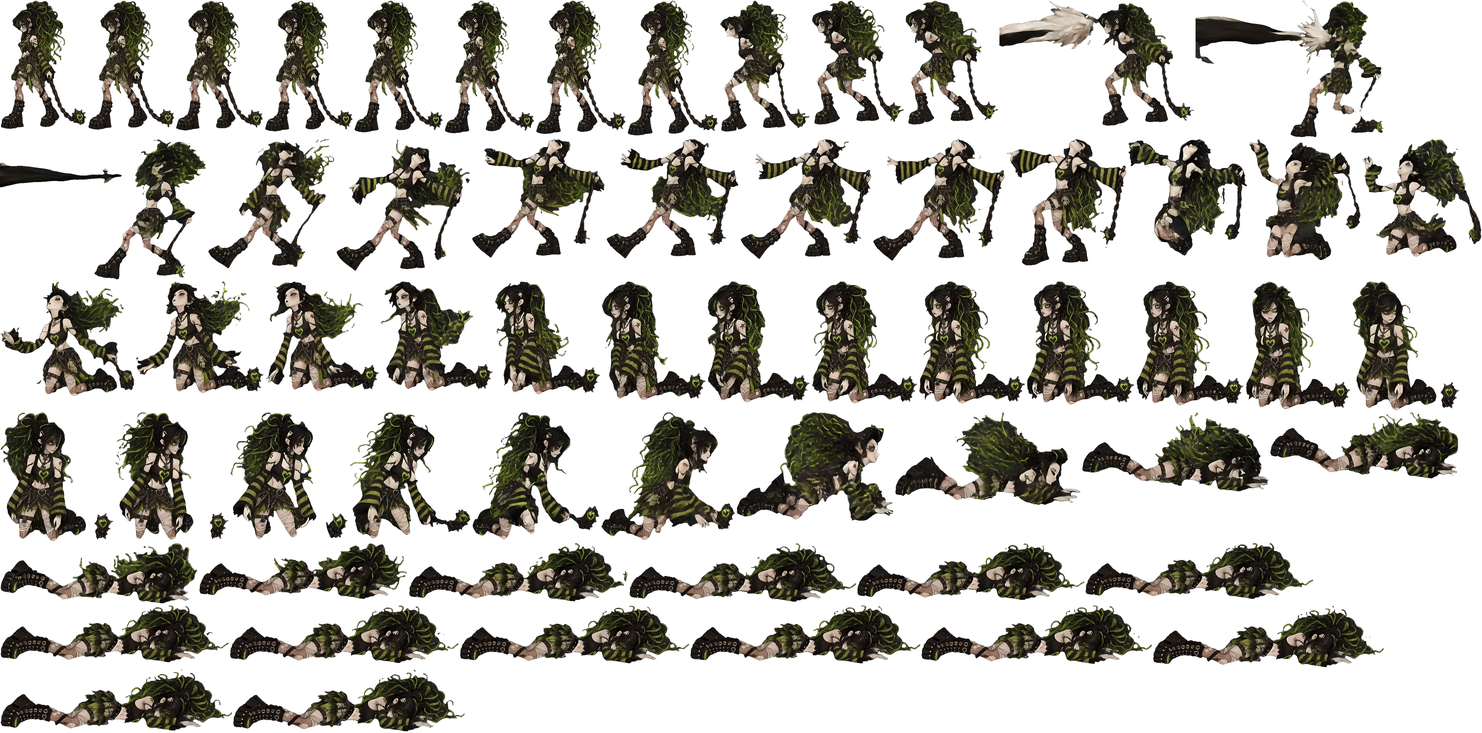
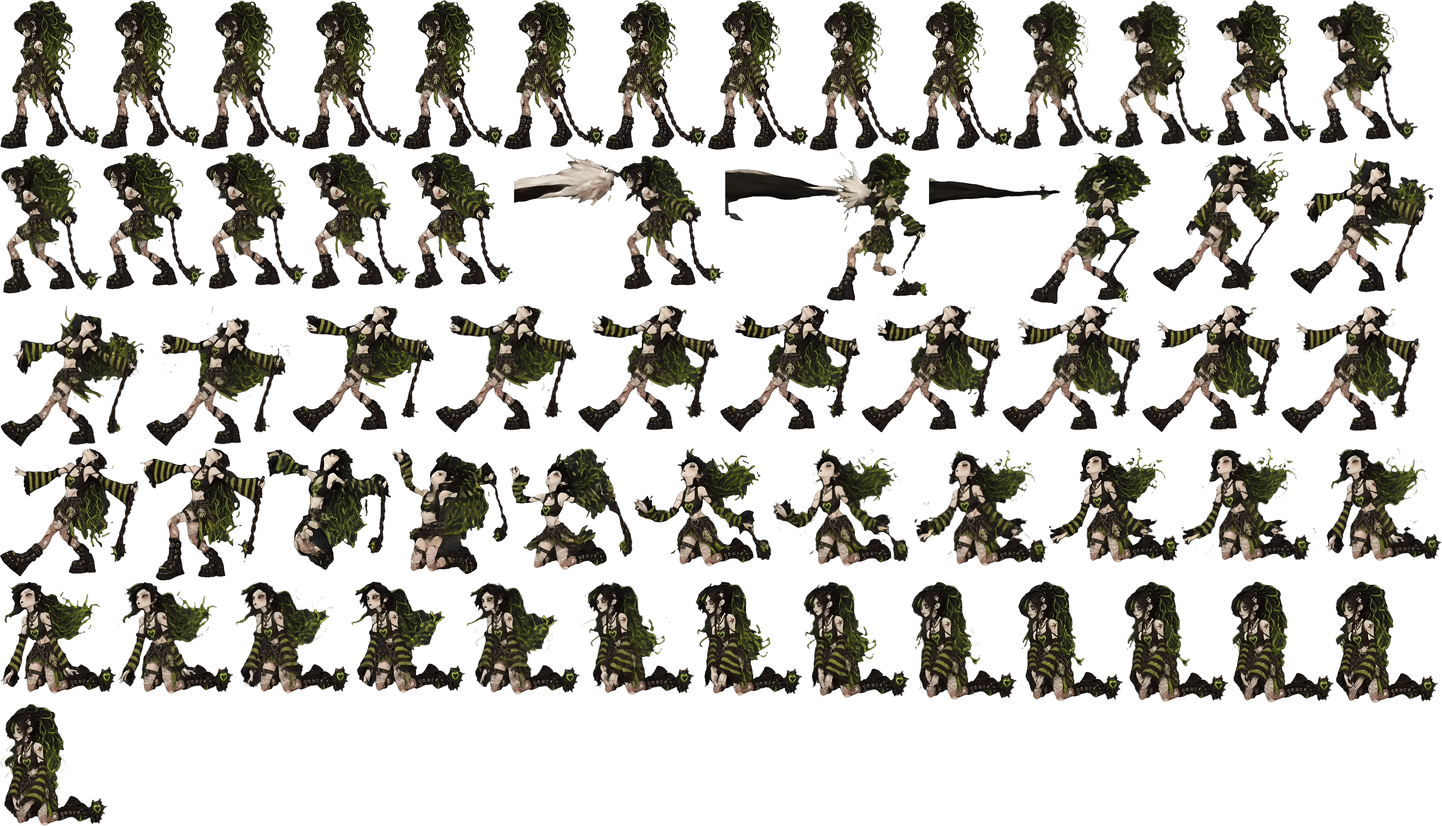
V9.43: Chain Goth death smoother and slower
Remove the source video's zoom-in so she stays at fight size, add 57
in-between frames (118 total across chain-death + chain-deathb), and
slow the fall from 4.3s to 6.0s.

Claude-Session: https://claude.ai/code/session_01Mi8TEfU6kHtCDJx6F5PqMK

diff --git a/js/levels/level1.js b/js/levels/level1.js
@@ -357,7 +357,7 @@ const ZOMBIE_DEATH_FLOOR_OFFSETS = [];   // V9.24: new death frames are bottom-a
    animator's 1440x1440 frames by tools/build_chain_assets.py). Every frame row is
    [packX, packY, packW, packH, offsetX, offsetY]; the offsets place the trimmed frame
    relative to her feet. The art faces LEFT, like the Zombie Goth art. */
-const CHAIN_ATLAS_DATA = {"intro":{"size":[3927,3924],"scale":0.64,"frames":[[0,0,269,401,-211,-623],[271,0,268,401,-211,-622],[541,0,269,396,-211,-615],[812,0,269,389,-211,-605],[1083,0,274,387,-211,-601],[1359,0,277,392,-211,-610],[1638,0,300,400,-211,-621],[1940,0,333,405,-211,-629],[2275,0,359,417,-211,-649],[2636,0,376,470,-211,-731],[3014,0,380,539,-215,-839],[3396,0,418,517,-382,-804],[0,541,367,543,-436,-844],[369,541,388,463,-443,-719],[759,541,456,390,-399,-606],[1217,541,352,486,-211,-756],[1571,541,419,500,-292,-777],[1992,541,554,509,-450,-791],[2548,541,476,525,-423,-819],[3026,541,377,554,-440,-865],[3405,541,522,400,-477,-624],[0,1097,511,435,-446,-664],[513,1097,381,534,-209,-792],[896,1097,436,516,-269,-788],[1334,1097,584,519,-452,-807],[1920,1097,500,532,-427,-829],[2422,1097,385,548,-452,-856],[2809,1097,530,400,-491,-625],[3341,1097,503,429,-425,-649],[0,1647,380,526,-210,-771],[382,1647,429,524,-258,-815],[813,1647,579,511,-434,-794],[1394,1647,520,529,-429,-824],[1916,1647,372,562,-437,-877],[2290,1647,486,460,-464,-718],[2778,1647,541,409,-464,-623],[3321,1647,423,481,-279,-704],[0,2211,393,549,-210,-801],[395,2211,488,505,-330,-784],[885,2211,605,515,-462,-801],[1492,2211,497,538,-427,-839],[1991,2211,370,560,-443,-874],[2363,2211,518,401,-475,-626],[2883,2211,519,412,-442,-626],[3404,2211,405,508,-241,-740],[0,2773,410,579,-225,-830],[412,2773,543,504,-413,-782],[957,2773,596,514,-461,-798],[1555,2773,449,536,-424,-834],[2006,2773,405,559,-436,-873],[2413,2773,527,400,-467,-624],[2942,2773,508,424,-414,-634],[3452,2773,390,545,-209,-783],[0,3354,423,563,-237,-803],[425,3354,547,509,-404,-790],[974,3354,609,515,-461,-799],[1585,3354,478,535,-427,-833],[2065,3354,375,568,-431,-887],[2442,3354,513,452,-455,-706],[2957,3354,530,422,-447,-630]]},"walk":{"size":[3693,357],"scale":0.56,"frames":[[0,0,240,352,-172,-624],[242,0,246,354,-168,-630],[490,0,244,355,-188,-631],[736,0,264,352,-259,-628],[1002,0,245,347,-261,-618],[1249,0,237,340,-245,-609],[1488,0,223,343,-213,-614],[1713,0,216,348,-173,-623],[1931,0,218,353,-144,-630],[2151,0,225,355,-155,-633],[2378,0,236,352,-217,-632],[2616,0,275,347,-271,-625],[2893,0,278,345,-257,-614],[3173,0,267,347,-225,-614],[3442,0,251,352,-187,-622]]},"swipe":{"size":[4064,953],"scale":0.64,"frames":[[0,0,269,401,-211,-623],[271,0,269,401,-211,-623],[542,0,269,401,-211,-624],[813,0,269,401,-211,-624],[1084,0,268,403,-211,-626],[1354,0,263,403,-211,-627],[1619,0,253,408,-211,-630],[1874,0,251,404,-211,-627],[2127,0,268,396,-211,-614],[2397,0,291,396,-211,-614],[2690,0,300,401,-236,-622],[2992,0,356,419,-339,-650],[3350,0,341,398,-385,-619],[3693,0,371,394,-441,-620],[0,421,477,413,-457,-641],[479,421,502,463,-396,-690],[983,421,390,484,-180,-724],[1375,421,418,530,-182,-799],[1795,421,385,490,-122,-868],[2182,421,386,507,-97,-913]]},"death":{"size":[4020,1989],"scale":0.56,"frames":[[0,0,236,352,-212,-624],[238,0,236,354,-213,-627],[476,0,239,356,-215,-629],[717,0,241,359,-219,-632],[960,0,243,361,-220,-632],[1205,0,246,364,-221,-636],[1453,0,246,366,-223,-637],[1701,0,248,370,-224,-645],[1951,0,248,359,-225,-619],[2201,0,252,340,-232,-585],[2455,0,254,340,-235,-584],[2711,0,530,343,-720,-589],[3243,0,512,374,-720,-636],[0,376,561,384,-720,-655],[563,376,346,354,-273,-605],[911,376,366,361,-273,-621],[1279,376,363,325,-273,-553],[1644,376,361,327,-275,-555],[2007,376,358,329,-277,-556],[2367,376,360,333,-281,-561],[2729,376,328,346,-233,-579],[3059,376,326,320,-231,-600],[3387,376,305,332,-219,-561],[3694,376,326,322,-261,-533],[0,762,366,314,-357,-513],[368,762,349,306,-331,-499],[719,762,311,301,-264,-488],[1032,762,307,300,-253,-484],[1341,762,288,309,-220,-497],[1631,762,285,325,-212,-525],[1918,762,281,331,-200,-533],[2201,762,289,334,-216,-536],[2492,762,290,334,-216,-535],[2784,762,295,337,-221,-536],[3081,762,295,340,-220,-540],[3378,762,287,350,-207,-559],[3667,762,293,353,-213,-559],[0,1117,309,353,-240,-559],[311,1117,311,349,-241,-556],[624,1117,321,347,-256,-553],[947,1117,331,346,-227,-547],[1280,1117,347,348,-259,-547],[1629,1117,366,350,-312,-551],[1997,1117,428,298,-384,-448],[2427,1117,505,255,-411,-371],[2934,1117,508,218,-392,-305],[3444,1117,513,184,-372,-243],[0,1472,537,167,-375,-216],[539,1472,567,155,-377,-185],[1108,1472,596,162,-379,-197],[1706,1472,616,163,-380,-199],[2324,1472,617,158,-383,-188],[2943,1472,619,155,-385,-180],[0,1641,620,158,-388,-184],[622,1641,622,160,-391,-185],[1246,1641,623,161,-393,-187],[1871,1641,625,161,-396,-184],[2498,1641,626,163,-397,-184],[3126,1641,627,172,-400,-199],[0,1815,629,170,-403,-196],[631,1815,629,172,-404,-197]]},"stun":{"size":[4074,1517],"scale":0.64,"frames":[[0,0,255,380,-235,-588],[257,0,255,380,-235,-590],[514,0,252,382,-235,-592],[768,0,249,383,-235,-594],[1019,0,243,383,-235,-594],[1264,0,238,387,-235,-600],[1504,0,230,389,-234,-604],[1736,0,223,394,-234,-607],[1961,0,217,402,-234,-607],[2180,0,214,402,-228,-601],[2396,0,211,400,-220,-597],[2609,0,216,391,-213,-583],[2827,0,220,380,-211,-570],[3049,0,234,369,-211,-559],[3285,0,251,356,-211,-550],[3538,0,265,353,-211,-545],[3805,0,269,350,-211,-541],[0,404,272,350,-211,-541],[274,404,266,351,-211,-542],[542,404,260,354,-211,-547],[804,404,253,356,-211,-550],[1059,404,249,358,-212,-554],[1310,404,243,359,-212,-556],[1555,404,241,364,-212,-559],[1798,404,243,367,-212,-561],[2043,404,248,365,-212,-558],[2293,404,252,361,-212,-555],[2547,404,262,355,-212,-550],[2811,404,266,352,-212,-545],[3079,404,269,349,-212,-540],[3350,404,266,348,-212,-538],[3618,404,261,350,-212,-541],[0,773,255,353,-213,-545],[257,773,249,355,-213,-549],[508,773,241,358,-212,-555],[751,773,237,362,-212,-561],[990,773,237,367,-212,-564],[1229,773,240,371,-213,-566],[1471,773,243,370,-212,-566],[1716,773,249,370,-212,-566],[1967,773,253,365,-212,-561],[2222,773,261,360,-212,-555],[2485,773,265,356,-212,-551],[2752,773,266,354,-212,-548],[3020,773,266,352,-212,-545],[3288,773,262,353,-212,-545],[3552,773,255,355,-212,-550],[3809,773,250,360,-212,-557],[0,1146,243,363,-212,-563],[245,1146,237,366,-212,-568],[484,1146,237,368,-212,-570],[723,1146,237,369,-212,-570],[962,1146,240,369,-212,-568],[1204,1146,246,365,-212,-562],[1452,1146,252,362,-212,-558],[1706,1146,260,360,-212,-554],[1968,1146,264,355,-212,-548],[2234,1146,266,354,-212,-547],[2502,1146,266,355,-212,-550],[2770,1146,261,359,-212,-556],[3033,1146,256,362,-212,-562]]},"hurt":{"size":[4073,2138],"scale":0.64,"frames":[[0,0,269,400,-211,-622],[271,0,262,400,-211,-622],[535,0,250,399,-211,-621],[787,0,241,402,-213,-625],[1030,0,239,406,-224,-632],[1271,0,243,411,-241,-638],[1516,0,253,415,-265,-645],[1771,0,253,420,-276,-652],[2026,0,248,422,-278,-656],[2276,0,239,426,-262,-660],[2517,0,225,429,-234,-662],[2744,0,220,435,-219,-662],[2966,0,218,433,-213,-657],[3186,0,223,426,-218,-645],[3411,0,234,420,-231,-635],[3647,0,247,413,-249,-625],[0,437,260,410,-263,-619],[262,437,276,407,-279,-615],[540,437,297,406,-295,-614],[839,437,320,410,-307,-619],[1161,437,335,410,-309,-620],[1498,437,349,404,-298,-611],[1849,437,349,396,-266,-597],[2200,437,367,388,-275,-585],[2569,437,366,387,-282,-584],[2937,437,351,391,-284,-590],[3290,437,332,398,-283,-601],[3624,437,312,404,-279,-611],[0,849,287,414,-273,-621],[289,849,257,422,-264,-631],[548,849,228,423,-254,-638],[778,849,213,426,-242,-646],[993,849,221,427,-222,-654],[1216,849,240,435,-218,-661],[1458,849,260,438,-215,-664],[1720,849,265,439,-202,-665],[1987,849,262,439,-190,-665],[2251,849,267,436,-182,-660],[2520,849,284,437,-178,-662],[2806,849,308,434,-177,-657],[3116,849,318,429,-168,-649],[3436,849,307,418,-154,-632],[3745,849,291,410,-150,-620],[0,1290,276,406,-150,-613],[278,1290,263,407,-150,-615],[543,1290,250,412,-150,-622],[795,1290,239,419,-150,-633],[1036,1290,231,424,-150,-641],[1269,1290,227,428,-150,-647],[1498,1290,221,428,-150,-648],[1721,1290,224,428,-150,-648],[1947,1290,231,427,-150,-646],[2180,1290,236,426,-150,-645],[2418,1290,236,425,-150,-643],[2656,1290,234,426,-150,-644],[2892,1290,232,426,-150,-645],[3126,1290,236,425,-150,-643],[3364,1290,236,424,-150,-641],[3602,1290,234,422,-150,-639],[3838,1290,235,419,-150,-634],[0,1720,236,416,-150,-629]],"bx":[3,8,12,16,20,25,30,35,38,42,45,49,51,50,45,39,33,26,20,16,14,14,15,15,20,29,39,46,51,53,58,59,55,51,50,52,57,60,61,63,65,66,66,67,68,69,69,69,69,69,69,67,67,67,70,73,76,78,80,83,85]},"slam":{"size":[4070,1455],"scale":0.56,"frames":[[0,0,236,353,-122,-626],[238,0,241,353,-130,-626],[481,0,243,353,-124,-626],[726,0,249,353,-116,-626],[977,0,286,354,-116,-627],[1265,0,283,355,-116,-629],[1550,0,305,356,-169,-630],[1857,0,258,357,-230,-631],[2117,0,303,357,-302,-632],[2422,0,358,359,-393,-634],[2782,0,388,360,-435,-636],[3172,0,379,362,-403,-636],[3553,0,305,363,-130,-636],[0,365,307,363,-134,-636],[309,365,307,363,-134,-636],[618,365,303,363,-136,-636],[923,365,303,361,-136,-633],[1228,365,335,361,-135,-636],[1565,365,333,359,-133,-629],[1900,365,361,359,-133,-632],[2263,365,360,357,-130,-626],[2625,365,363,357,-130,-627],[2990,365,359,355,-124,-622],[3351,365,372,355,-121,-624],[3725,365,345,355,-118,-625],[0,730,234,358,-202,-629],[236,730,303,358,-308,-632],[541,730,364,358,-409,-632],[907,730,384,361,-433,-636],[1293,730,384,362,-424,-636],[1679,730,338,362,-322,-636],[2019,730,307,363,-131,-636],[2328,730,304,363,-134,-636],[2634,730,304,363,-134,-636],[2940,730,303,363,-136,-636],[3245,730,302,361,-137,-633],[3549,730,332,360,-132,-634],[0,1095,332,358,-133,-628],[334,1095,351,357,-130,-628],[687,1095,351,356,-130,-625],[1040,1095,367,356,-130,-626],[1409,1095,366,355,-129,-623],[1777,1095,357,355,-119,-622],[2136,1095,360,356,-118,-624],[2498,1095,232,357,-118,-627],[2732,1095,230,357,-116,-628]]}};
+const CHAIN_ATLAS_DATA = {"intro":{"size":[3927,3924],"scale":0.64,"frames":[[0,0,269,401,-211,-623],[271,0,268,401,-211,-622],[541,0,269,396,-211,-615],[812,0,269,389,-211,-605],[1083,0,274,387,-211,-601],[1359,0,277,392,-211,-610],[1638,0,300,400,-211,-621],[1940,0,333,405,-211,-629],[2275,0,359,417,-211,-649],[2636,0,376,470,-211,-731],[3014,0,380,539,-215,-839],[3396,0,418,517,-382,-804],[0,541,367,543,-436,-844],[369,541,388,463,-443,-719],[759,541,456,390,-399,-606],[1217,541,352,486,-211,-756],[1571,541,419,500,-292,-777],[1992,541,554,509,-450,-791],[2548,541,476,525,-423,-819],[3026,541,377,554,-440,-865],[3405,541,522,400,-477,-624],[0,1097,511,435,-446,-664],[513,1097,381,534,-209,-792],[896,1097,436,516,-269,-788],[1334,1097,584,519,-452,-807],[1920,1097,500,532,-427,-829],[2422,1097,385,548,-452,-856],[2809,1097,530,400,-491,-625],[3341,1097,503,429,-425,-649],[0,1647,380,526,-210,-771],[382,1647,429,524,-258,-815],[813,1647,579,511,-434,-794],[1394,1647,520,529,-429,-824],[1916,1647,372,562,-437,-877],[2290,1647,486,460,-464,-718],[2778,1647,541,409,-464,-623],[3321,1647,423,481,-279,-704],[0,2211,393,549,-210,-801],[395,2211,488,505,-330,-784],[885,2211,605,515,-462,-801],[1492,2211,497,538,-427,-839],[1991,2211,370,560,-443,-874],[2363,2211,518,401,-475,-626],[2883,2211,519,412,-442,-626],[3404,2211,405,508,-241,-740],[0,2773,410,579,-225,-830],[412,2773,543,504,-413,-782],[957,2773,596,514,-461,-798],[1555,2773,449,536,-424,-834],[2006,2773,405,559,-436,-873],[2413,2773,527,400,-467,-624],[2942,2773,508,424,-414,-634],[3452,2773,390,545,-209,-783],[0,3354,423,563,-237,-803],[425,3354,547,509,-404,-790],[974,3354,609,515,-461,-799],[1585,3354,478,535,-427,-833],[2065,3354,375,568,-431,-887],[2442,3354,513,452,-455,-706],[2957,3354,530,422,-447,-630]]},"walk":{"size":[3693,357],"scale":0.56,"frames":[[0,0,240,352,-172,-624],[242,0,246,354,-168,-630],[490,0,244,355,-188,-631],[736,0,264,352,-259,-628],[1002,0,245,347,-261,-618],[1249,0,237,340,-245,-609],[1488,0,223,343,-213,-614],[1713,0,216,348,-173,-623],[1931,0,218,353,-144,-630],[2151,0,225,355,-155,-633],[2378,0,236,352,-217,-632],[2616,0,275,347,-271,-625],[2893,0,278,345,-257,-614],[3173,0,267,347,-225,-614],[3442,0,251,352,-187,-622]]},"swipe":{"size":[4064,953],"scale":0.64,"frames":[[0,0,269,401,-211,-623],[271,0,269,401,-211,-623],[542,0,269,401,-211,-624],[813,0,269,401,-211,-624],[1084,0,268,403,-211,-626],[1354,0,263,403,-211,-627],[1619,0,253,408,-211,-630],[1874,0,251,404,-211,-627],[2127,0,268,396,-211,-614],[2397,0,291,396,-211,-614],[2690,0,300,401,-236,-622],[2992,0,356,419,-339,-650],[3350,0,341,398,-385,-619],[3693,0,371,394,-441,-620],[0,421,477,413,-457,-641],[479,421,502,463,-396,-690],[983,421,390,484,-180,-724],[1375,421,418,530,-182,-799],[1795,421,385,490,-122,-868],[2182,421,386,507,-97,-913]]},"death":{"size":[3913,2242],"scale":0.64,"frames":[[0,0,271,406,-212.5,-626.5625],[273,0,269,405,-212.5,-626.5625],[544,0,273,407,-214.0625,-628.125],[819,0,272,407,-212.5,-628.125],[1093,0,272,407,-214.0625,-628.125],[1367,0,274,407,-214.0625,-626.5625],[1643,0,275,408,-214.0625,-628.125],[1920,0,274,408,-214.0625,-628.125],[2196,0,275,411,-214.0625,-632.8125],[2473,0,274,411,-212.5,-634.375],[2749,0,274,407,-210.9375,-625.0],[3025,0,272,403,-209.375,-617.1875],[3299,0,273,396,-212.5,-606.25],[3574,0,276,390,-215.625,-596.875],[0,413,278,385,-218.75,-589.0625],[280,413,276,373,-217.1875,-571.875],[558,413,277,373,-218.75,-570.3125],[837,413,277,373,-218.75,-570.3125],[1116,413,277,371,-218.75,-568.75],[1395,413,571,373,-671.875,-573.4375],[1968,413,551,404,-671.875,-615.625],[2521,413,604,413,-671.875,-632.8125],[3127,413,371,380,-250.0,-584.375],[3500,413,391,386,-248.4375,-598.4375],[0,828,393,386,-248.4375,-596.875],[395,828,396,385,-248.4375,-593.75],[793,828,386,346,-246.875,-534.375],[1181,828,385,347,-246.875,-534.375],[1568,828,384,347,-246.875,-534.375],[1954,828,381,345,-245.3125,-532.8125],[2337,828,380,347,-246.875,-534.375],[2719,828,377,347,-246.875,-534.375],[3098,828,376,346,-246.875,-532.8125],[3476,828,378,350,-248.4375,-537.5],[0,1216,377,349,-248.4375,-537.5],[379,1216,342,360,-203.125,-551.5625],[723,1216,339,333,-200.0,-570.3125],[1064,1216,315,344,-187.5,-534.375],[1381,1216,336,331,-225.0,-507.8125],[1719,1216,375,321,-309.375,-487.5],[2096,1216,375,321,-306.25,-487.5],[2473,1216,371,321,-303.125,-487.5],[2846,1216,357,312,-284.375,-473.4375],[3205,1216,355,310,-281.25,-470.3125],[3562,1216,351,308,-276.5625,-467.1875],[0,1578,316,305,-223.4375,-464.0625],[318,1578,316,306,-221.875,-464.0625],[636,1578,315,305,-220.3125,-462.5],[953,1578,310,303,-212.5,-459.375],[1265,1578,310,308,-210.9375,-465.625],[1577,1578,308,309,-207.8125,-467.1875],[1887,1578,290,311,-181.25,-470.3125],[2179,1578,290,318,-179.6875,-479.6875],[2471,1578,289,323,-178.125,-487.5],[2762,1578,286,326,-173.4375,-493.75],[3050,1578,286,329,-170.3125,-496.875],[3338,1578,284,330,-167.1875,-498.4375],[3624,1578,280,330,-160.9375,-500.0],[0,1910,293,332,-181.25,-501.5625]],"ts":[0.0,1.0,1.5,2.0,3.0,4.0,5.0,6.0,6.5,7.0,7.333,7.667,8.0,8.333,8.667,9.0,9.333,9.667,10.0,11.0,12.0,13.0,14.0,15.0,15.333,15.667,16.0,16.333,16.667,17.0,17.333,17.667,18.0,18.5,19.0,20.0,21.0,22.0,23.0,24.0,24.333,24.667,25.0,25.333,25.667,26.0,26.333,26.667,27.0,27.333,27.667,28.0,28.333,28.667,29.0,29.333,29.667,30.0,30.333,30.667,31.0,31.333,31.667,32.0,32.5,33.0,33.5,34.0,34.333,34.667,35.0,35.333,35.667,36.0,36.333,36.667,37.0,37.333,37.667,38.0,38.333,38.667,39.0,39.333,39.667,40.0,40.333,40.667,41.0,41.333,41.667,42.0,43.0,44.0,45.0,45.333,45.667,46.0,46.333,46.667,47.0,47.333,47.667,48.0,48.5,49.0,49.5,50.0,51.0,52.0,53.0,54.0,55.0,56.0,57.0,58.0,59.0,60.0]},"deathb":{"size":[4031,1520],"scale":0.64,"frames":[[0,0,289,332,-175.0,-501.5625],[291,0,286,331,-173.4375,-501.5625],[579,0,288,332,-175.0,-501.5625],[869,0,288,332,-175.0,-501.5625],[1159,0,287,331,-173.4375,-500.0],[1448,0,289,333,-175.0,-501.5625],[1739,0,290,331,-176.5625,-500.0],[2031,0,291,333,-176.5625,-501.5625],[2324,0,288,332,-173.4375,-501.5625],[2614,0,287,336,-170.3125,-507.8125],[2903,0,283,339,-165.625,-512.5],[3188,0,280,341,-160.9375,-517.1875],[3470,0,279,343,-157.8125,-517.1875],[3751,0,280,344,-159.375,-517.1875],[0,346,284,343,-165.625,-515.625],[286,346,295,344,-181.25,-517.1875],[583,346,297,344,-184.375,-517.1875],[882,346,299,342,-187.5,-515.625],[1183,346,307,341,-198.4375,-514.0625],[1492,346,304,340,-193.75,-514.0625],[1798,346,300,337,-187.5,-512.5],[2100,346,307,336,-196.875,-512.5],[2409,346,311,335,-201.5625,-510.9375],[2722,346,308,333,-198.4375,-509.375],[3032,346,318,333,-200.0,-507.8125],[3352,346,317,330,-185.9375,-504.6875],[3671,346,315,330,-171.875,-501.5625],[0,692,313,332,-168.75,-503.125],[315,692,322,332,-184.375,-503.125],[639,692,330,331,-198.4375,-501.5625],[971,692,337,332,-214.0625,-503.125],[1310,692,343,333,-228.125,-504.6875],[1655,692,346,331,-240.625,-503.125],[2003,692,403,280,-298.4375,-417.1875],[2408,692,473,239,-318.75,-353.125],[2883,692,475,203,-301.5625,-300.0],[3360,692,478,198,-296.875,-290.625],[0,1027,477,190,-290.625,-278.125],[479,1027,477,170,-284.375,-248.4375],[958,1027,490,167,-285.9375,-243.75],[1450,1027,495,163,-285.9375,-237.5],[1947,1027,498,154,-284.375,-226.5625],[2447,1027,518,152,-285.9375,-220.3125],[2967,1027,521,149,-285.9375,-214.0625],[3490,1027,522,141,-284.375,-201.5625],[0,1219,547,149,-285.9375,-212.5],[549,1219,548,148,-284.375,-212.5],[1099,1219,550,149,-284.375,-214.0625],[1651,1219,548,149,-282.8125,-214.0625],[2201,1219,549,142,-284.375,-204.6875],[2752,1219,549,140,-284.375,-200.0],[3303,1219,549,142,-284.375,-203.125],[0,1370,549,143,-284.375,-204.6875],[551,1370,550,144,-285.9375,-206.25],[1103,1370,550,142,-285.9375,-203.125],[1655,1370,550,143,-285.9375,-204.6875],[2207,1370,550,150,-285.9375,-215.625],[2759,1370,550,148,-285.9375,-214.0625],[3311,1370,550,150,-285.9375,-215.625]]},"stun":{"size":[4074,1517],"scale":0.64,"frames":[[0,0,255,380,-235,-588],[257,0,255,380,-235,-590],[514,0,252,382,-235,-592],[768,0,249,383,-235,-594],[1019,0,243,383,-235,-594],[1264,0,238,387,-235,-600],[1504,0,230,389,-234,-604],[1736,0,223,394,-234,-607],[1961,0,217,402,-234,-607],[2180,0,214,402,-228,-601],[2396,0,211,400,-220,-597],[2609,0,216,391,-213,-583],[2827,0,220,380,-211,-570],[3049,0,234,369,-211,-559],[3285,0,251,356,-211,-550],[3538,0,265,353,-211,-545],[3805,0,269,350,-211,-541],[0,404,272,350,-211,-541],[274,404,266,351,-211,-542],[542,404,260,354,-211,-547],[804,404,253,356,-211,-550],[1059,404,249,358,-212,-554],[1310,404,243,359,-212,-556],[1555,404,241,364,-212,-559],[1798,404,243,367,-212,-561],[2043,404,248,365,-212,-558],[2293,404,252,361,-212,-555],[2547,404,262,355,-212,-550],[2811,404,266,352,-212,-545],[3079,404,269,349,-212,-540],[3350,404,266,348,-212,-538],[3618,404,261,350,-212,-541],[0,773,255,353,-213,-545],[257,773,249,355,-213,-549],[508,773,241,358,-212,-555],[751,773,237,362,-212,-561],[990,773,237,367,-212,-564],[1229,773,240,371,-213,-566],[1471,773,243,370,-212,-566],[1716,773,249,370,-212,-566],[1967,773,253,365,-212,-561],[2222,773,261,360,-212,-555],[2485,773,265,356,-212,-551],[2752,773,266,354,-212,-548],[3020,773,266,352,-212,-545],[3288,773,262,353,-212,-545],[3552,773,255,355,-212,-550],[3809,773,250,360,-212,-557],[0,1146,243,363,-212,-563],[245,1146,237,366,-212,-568],[484,1146,237,368,-212,-570],[723,1146,237,369,-212,-570],[962,1146,240,369,-212,-568],[1204,1146,246,365,-212,-562],[1452,1146,252,362,-212,-558],[1706,1146,260,360,-212,-554],[1968,1146,264,355,-212,-548],[2234,1146,266,354,-212,-547],[2502,1146,266,355,-212,-550],[2770,1146,261,359,-212,-556],[3033,1146,256,362,-212,-562]]},"hurt":{"size":[4073,2138],"scale":0.64,"frames":[[0,0,269,400,-211,-622],[271,0,262,400,-211,-622],[535,0,250,399,-211,-621],[787,0,241,402,-213,-625],[1030,0,239,406,-224,-632],[1271,0,243,411,-241,-638],[1516,0,253,415,-265,-645],[1771,0,253,420,-276,-652],[2026,0,248,422,-278,-656],[2276,0,239,426,-262,-660],[2517,0,225,429,-234,-662],[2744,0,220,435,-219,-662],[2966,0,218,433,-213,-657],[3186,0,223,426,-218,-645],[3411,0,234,420,-231,-635],[3647,0,247,413,-249,-625],[0,437,260,410,-263,-619],[262,437,276,407,-279,-615],[540,437,297,406,-295,-614],[839,437,320,410,-307,-619],[1161,437,335,410,-309,-620],[1498,437,349,404,-298,-611],[1849,437,349,396,-266,-597],[2200,437,367,388,-275,-585],[2569,437,366,387,-282,-584],[2937,437,351,391,-284,-590],[3290,437,332,398,-283,-601],[3624,437,312,404,-279,-611],[0,849,287,414,-273,-621],[289,849,257,422,-264,-631],[548,849,228,423,-254,-638],[778,849,213,426,-242,-646],[993,849,221,427,-222,-654],[1216,849,240,435,-218,-661],[1458,849,260,438,-215,-664],[1720,849,265,439,-202,-665],[1987,849,262,439,-190,-665],[2251,849,267,436,-182,-660],[2520,849,284,437,-178,-662],[2806,849,308,434,-177,-657],[3116,849,318,429,-168,-649],[3436,849,307,418,-154,-632],[3745,849,291,410,-150,-620],[0,1290,276,406,-150,-613],[278,1290,263,407,-150,-615],[543,1290,250,412,-150,-622],[795,1290,239,419,-150,-633],[1036,1290,231,424,-150,-641],[1269,1290,227,428,-150,-647],[1498,1290,221,428,-150,-648],[1721,1290,224,428,-150,-648],[1947,1290,231,427,-150,-646],[2180,1290,236,426,-150,-645],[2418,1290,236,425,-150,-643],[2656,1290,234,426,-150,-644],[2892,1290,232,426,-150,-645],[3126,1290,236,425,-150,-643],[3364,1290,236,424,-150,-641],[3602,1290,234,422,-150,-639],[3838,1290,235,419,-150,-634],[0,1720,236,416,-150,-629]],"bx":[3,8,12,16,20,25,30,35,38,42,45,49,51,50,45,39,33,26,20,16,14,14,15,15,20,29,39,46,51,53,58,59,55,51,50,52,57,60,61,63,65,66,66,67,68,69,69,69,69,69,69,67,67,67,70,73,76,78,80,83,85]},"slam":{"size":[4070,1455],"scale":0.56,"frames":[[0,0,236,353,-122,-626],[238,0,241,353,-130,-626],[481,0,243,353,-124,-626],[726,0,249,353,-116,-626],[977,0,286,354,-116,-627],[1265,0,283,355,-116,-629],[1550,0,305,356,-169,-630],[1857,0,258,357,-230,-631],[2117,0,303,357,-302,-632],[2422,0,358,359,-393,-634],[2782,0,388,360,-435,-636],[3172,0,379,362,-403,-636],[3553,0,305,363,-130,-636],[0,365,307,363,-134,-636],[309,365,307,363,-134,-636],[618,365,303,363,-136,-636],[923,365,303,361,-136,-633],[1228,365,335,361,-135,-636],[1565,365,333,359,-133,-629],[1900,365,361,359,-133,-632],[2263,365,360,357,-130,-626],[2625,365,363,357,-130,-627],[2990,365,359,355,-124,-622],[3351,365,372,355,-121,-624],[3725,365,345,355,-118,-625],[0,730,234,358,-202,-629],[236,730,303,358,-308,-632],[541,730,364,358,-409,-632],[907,730,384,361,-433,-636],[1293,730,384,362,-424,-636],[1679,730,338,362,-322,-636],[2019,730,307,363,-131,-636],[2328,730,304,363,-134,-636],[2634,730,304,363,-134,-636],[2940,730,303,363,-136,-636],[3245,730,302,361,-137,-633],[3549,730,332,360,-132,-634],[0,1095,332,358,-133,-628],[334,1095,351,357,-130,-628],[687,1095,351,356,-130,-625],[1040,1095,367,356,-130,-626],[1409,1095,366,355,-129,-623],[1777,1095,357,355,-119,-622],[2136,1095,360,356,-118,-624],[2498,1095,232,357,-118,-627],[2732,1095,230,357,-116,-628]]}};
 // Video frame numbers of the kept slam frames (the slam pack index -> frame of the source video; 24 fps).
 const CHAIN_SLAM_VF = [37,39,41,43,45,47,49,51,53,55,57,59,61,62,63,64,65,66,67,68,69,70,71,74,77,80,83,84,86,88,90,92,94,95,96,97,98,99,100,101,102,103,106,109,112,115];
 /* V9.25: Patricia (Level 1 boss) animation packs: one WebP per move, built by tools/build_patricia_assets.py.
@@ -411,7 +411,7 @@ const PAT_PATTERN_1 = ['lunge', 'combo', 'vanish', 'combo', 'lunge'];
 const PAT_PATTERN_2 = ['combo', 'lightning', 'vanish', 'lunge', 'combo', 'lightning', 'vanish'];
 const chainAtlas = {};
 for (const [name, data] of Object.entries(CHAIN_ATLAS_DATA)) {
-    chainAtlas[name] = { img: new Image(), frames: data.frames, scale: data.scale, bx: data.bx };
+    chainAtlas[name] = { img: new Image(), frames: data.frames, scale: data.scale, bx: data.bx, ts: data.ts };
 }
 zombieSprites.shambler.src = 'assets/characters/zombie-goth.webp?v=300';
 zombieSprites.chain.src = 'assets/characters/chain-goth-clean.webp?v=6513';
@@ -443,7 +443,7 @@ function loadCombatAssets() {
     zombieCountdownFrames.fight.src = 'assets/characters/combat/zombie-countdown-fight.webp?v=8600';
     for (const [name, a] of Object.entries(chainAtlas)) {
         const img = a.img;
-        img.src = `assets/characters/combat/chain-goth/chain-${name}.webp?v=9420`;
+        img.src = `assets/characters/combat/chain-goth/chain-${name}.webp?v=9430`;
         // Decode the big sheets in the background so the first time she uses a move there is no hitch (Safari decodes lazily).
         img.decode?.().then(() => {
             try { const t = document.createElement('canvas'); t.width = t.height = 1; t.getContext('2d').drawImage(img, 0, 0, 1, 1); } catch (e) {}
@@ -498,7 +498,10 @@ const CHAIN_CONTACTS = {
     swipe: { 14: [-325, -30] }
 };
 const CHAIN_SPARK_MS = 230;
-const CHAIN_DEATH_FRAME_MS = 70, CHAIN_DEATH_FALL_MS = 60 * 70, CHAIN_DEATH_HOLD_MS = 1500, CHAIN_DEATH_SCALE = 0.78;   // V9.41: slower (was real video speed) and drawn smaller   // V9.39: new 61-frame death (ChainGothDeathNew) at real video speed;   // V9.34: new death (ChainGothDeath3): 22 hit-and-fall frames + the floor frame;   // V9.24: 18 hit-and-fall frames, then she lies still before fading
+// V9.43: death rebuilt from the same 61 video frames: the video's slow zoom-in is removed (she no longer grows as she falls, so she is drawn at her
+// normal fight size), 57 in-between frames are added where she moves gently (118 frames over two sheets, chain-death + chain-deathb), and it plays slower.
+// CHAIN_DEATH_FRAME_MS = time per ORIGINAL video frame: 70 was the old speed, 100 is now; bigger = slower. CHAIN_DEATH_SCALE = her size (1 = fight size).
+const CHAIN_DEATH_FRAME_MS = 100, CHAIN_DEATH_FALL_MS = 60 * CHAIN_DEATH_FRAME_MS, CHAIN_DEATH_HOLD_MS = 1500, CHAIN_DEATH_SCALE = 1;   // V9.41: slower (was real video speed) and drawn smaller   // V9.39: new 61-frame death (ChainGothDeathNew) at real video speed;   // V9.34: new death (ChainGothDeath3): 22 hit-and-fall frames + the floor frame;   // V9.24: 18 hit-and-fall frames, then she lies still before fading
 
 let chainLastGood = null;
 function drawChainAtlasFrame(c, pack, index, x, floorY, face, renderScale = CHAIN_RENDER_SCALE, alpha = 1, rotation = 0, offsetX = 0) {
@@ -2885,9 +2888,14 @@ export function createLevel1(ui) {
             return { pack: chainAtlas.swipe, index, scale: CHAIN_RENDER_SCALE };
         }
         if (zombieCombatState === 'death') {
-            const n = chainAtlas.death?.frames?.length || 1;
-            const t = Math.max(0, nowMs - zombieCombatStateStart);
-            return { pack: chainAtlas.death, index: Math.min(n - 1, Math.floor(t / CHAIN_DEATH_FRAME_MS)), scale: CHAIN_RENDER_SCALE * CHAIN_DEATH_SCALE };
+            // V9.43: the frames run across two sheets (death, then deathb); death.ts lists when each frame starts, counted in original video frames.
+            const d = chainAtlas.death, b = chainAtlas.deathb, ts = d?.ts || [];
+            const n1 = d?.frames?.length || 1, n = n1 + (b?.frames?.length || 0);
+            const pos = Math.max(0, nowMs - zombieCombatStateStart) / CHAIN_DEATH_FRAME_MS;
+            let i = 0;
+            while (i + 1 < n && i + 1 < ts.length && ts[i + 1] <= pos) i++;
+            const scale = CHAIN_RENDER_SCALE * CHAIN_DEATH_SCALE;
+            return i < n1 ? { pack: d, index: i, scale } : { pack: b, index: i - n1, scale };
         }
         // ready uses the neutral standing pose.
         return { pack: chainAtlas.swipe, index: 0, scale: CHAIN_RENDER_SCALE };

diff --git a/js/game.js b/js/game.js
@@ -1,5 +1,5 @@
 import { StoryController } from './story.js?v=9420';
-import { createLevel1, resetRingTutorials } from './levels/level1.js?v=9420';
+import { createLevel1, resetRingTutorials } from './levels/level1.js?v=9430';
 import { playMusic, setLoopSfx, playSfx, audioNeedsClick } from './audio.js?v=9420';
 import { initSettings, openSettings } from './settings.js?v=9420';
 import { actionForKey } from './controls.js?v=9420';

diff --git a/index.html b/index.html
@@ -10,8 +10,8 @@
 </head>
 <body>
   <main id="app"><div id="game-root"></div></main>
-  <div id="gg-ver">V9.42</div>
-  <script type="module" src="js/game.js?v=9420"></script>
+  <div id="gg-ver">V9.43</div>
+  <script type="module" src="js/game.js?v=9430"></script>
   <script type="module" src="js/screen-polish.js?v=9420"></script>
 </body>
 </html>
